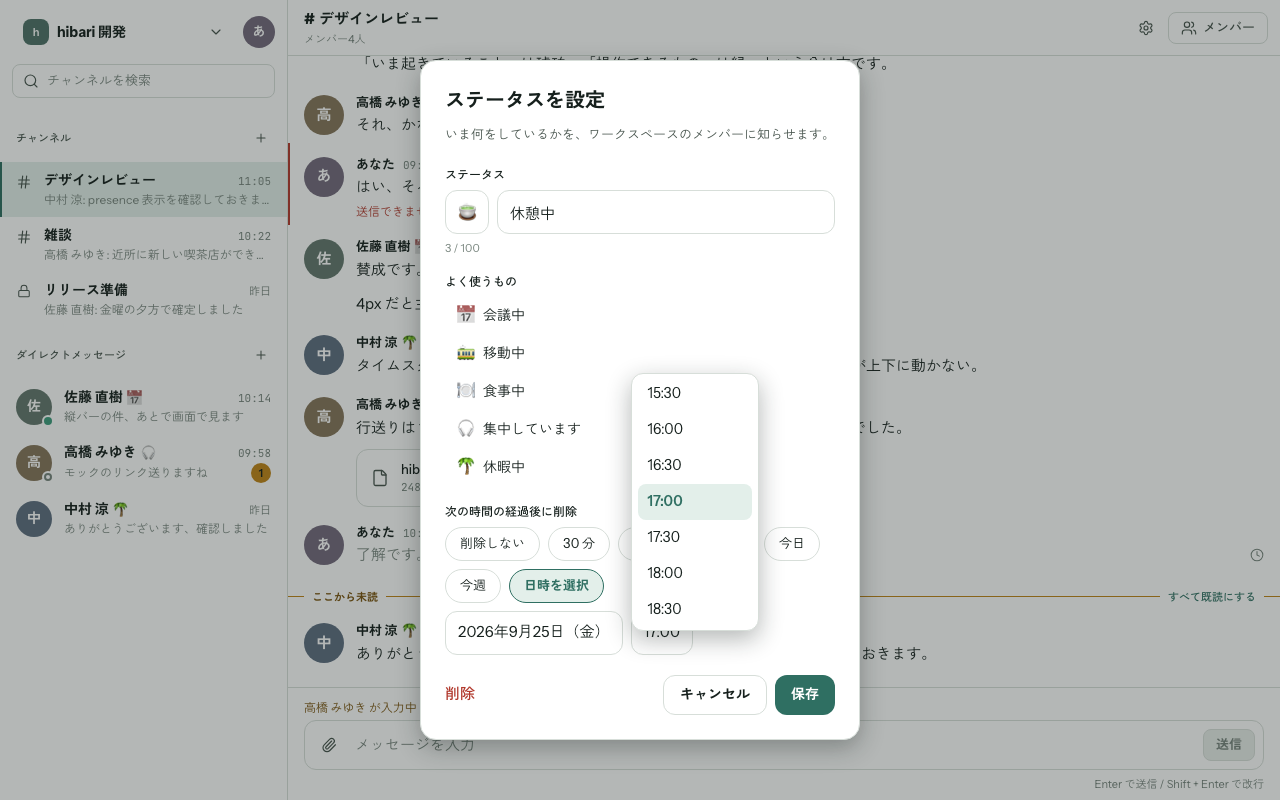
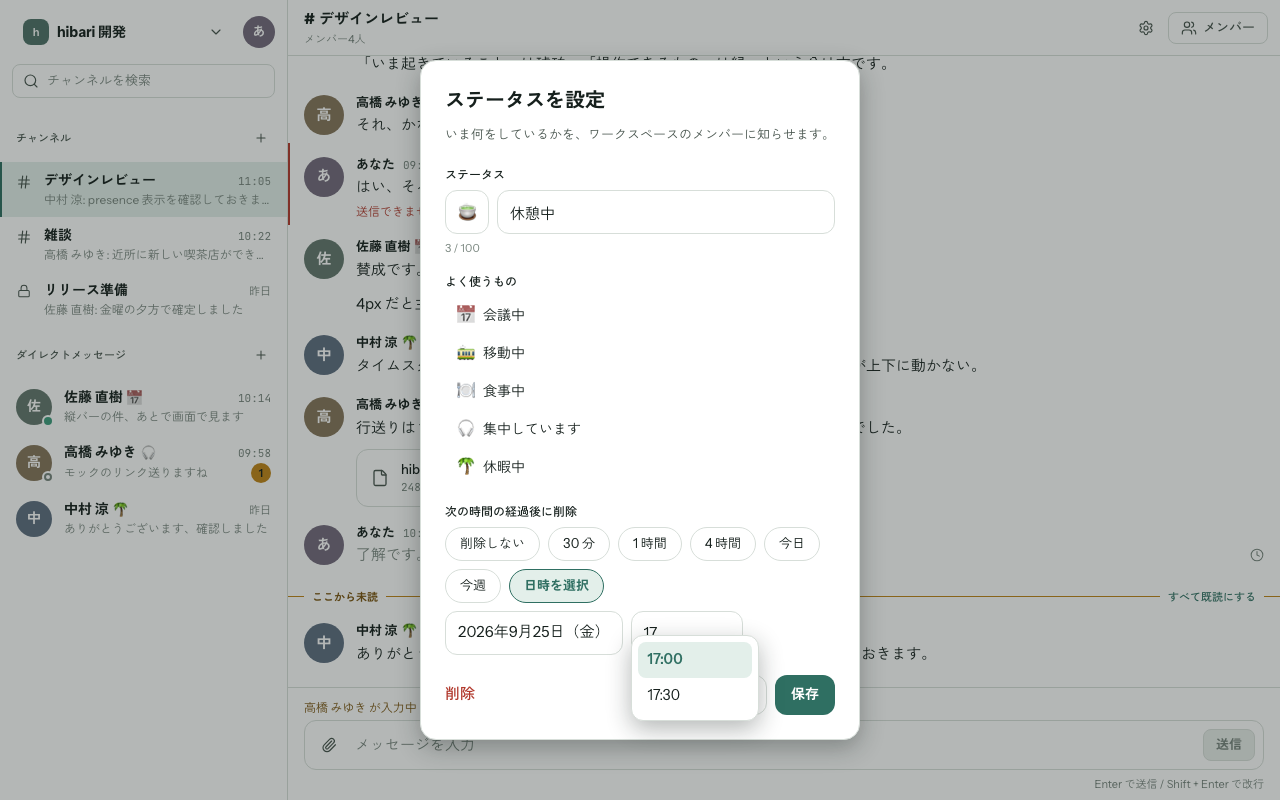
fix(web): 時刻を「候補の一覧 + 自由入力」にする（Slack の time picker に合わせる）
「30 分刻みしか選べない」と書いていたのは誤りだった。根拠にしていたのは第三者の記事で、
Slack 公式の time picker の説明は「デスクトップは自由入力のできるドロップダウン、
モバイルは OS 標準の時刻入力」。オーナーの指摘で調べ直し、そちらに合わせた。

- 時刻は入力欄（combobox）にし、打った文字で候補を絞る（17 → 17:00 / 17:30）
- 候補に無い時刻（17:05）も打って入れられる（lib/calendar.ts の normalizeTime）
- モバイルは OS 標準の時刻入力にする
- 候補は今までどおり 30 分ごと。今日なら過ぎた時刻は出さない

Changed region(s): [[0.4688, 0.5, 0.5938, 0.9375], [0.5, 0.4688, 0.5312, 0.5]]

diff --git a/web/components/chat/status-dialog.tsx b/web/components/chat/status-dialog.tsx
@@ -1,6 +1,6 @@
 "use client";
 
-import { type ReactNode, useEffect, useRef } from "react";
+import { type ReactNode, useEffect, useId, useRef } from "react";
 
 import { AnchoredPanel } from "@/components/ui/anchored-panel";
 import { Calendar } from "@/components/ui/calendar";
@@ -9,7 +9,7 @@ import { ChoiceChip } from "@/components/ui/choice";
 import { Dialog } from "@/components/ui/dialog";
 import { TextField } from "@/components/ui/field";
 import { Portal } from "@/components/ui/portal";
-import { dateLabel, halfHourTimes } from "@/lib/calendar";
+import { dateLabel, halfHourTimes, matchTimes, normalizeTime } from "@/lib/calendar";
 import { cx } from "@/lib/cx";
 import { DESKTOP_QUERY, useMediaQuery } from "@/lib/use-media-query";
 
@@ -103,15 +103,25 @@ function Section({ label, children }: { label: string; children: ReactNode }) {
   );
 }
 
-// 日付・時刻を開くボタン。入力欄と同じ高さ・枠にして、並べたときに段差が出ないようにする。
+// 日付を開くボタンと時刻の入力。高さと枠をそろえて、並べたときに段差が出ないようにする。
 const pickerButtonClass =
-  "flex h-11 cursor-pointer items-center rounded-md border border-border bg-surface px-3 text-lg text-text hover:bg-surface-muted";
+  "flex h-11 cursor-pointer items-center rounded-md border border-border bg-surface px-3 text-lg text-text hover:bg-surface-muted focus-visible:-outline-offset-2";
 
 /**
- * 30 分刻みの時刻の一覧。開いたときに、選んでいる時刻が見える位置まで送る
- * （48 個あるので、いつも 00:00 から始まると選び直すたびにスクロールが要る）。
+ * 時刻の候補の一覧（30 分ごと）。打った文字で絞った結果を受け取る。
+ * 開いたときは、選んでいる時刻が見える位置まで送る（48 個あるので、いつも 00:00 から始まると毎回スクロールが要る）。
  */
-function TimeList({ times, value, onSelect }: { times: string[]; value?: string; onSelect: (time: string) => void }) {
+function TimeList({
+  id,
+  times,
+  value,
+  onSelect,
+}: {
+  id: string;
+  times: string[];
+  value?: string;
+  onSelect: (time: string) => void;
+}) {
   const selected = useRef<HTMLButtonElement>(null);
   useEffect(() => {
     // jsdom には scrollIntoView が無いので、あるときだけ呼ぶ（無くても一覧は出る）
@@ -119,15 +129,15 @@ function TimeList({ times, value, onSelect }: { times: string[]; value?: string;
   }, []);
 
   return (
-    // 一覧から 1 つ選ぶので、押せる要素はラジオにする（button に aria-selected は付けられない）
-    <ul role="radiogroup" aria-label="削除する時刻" className="max-h-64 overflow-y-auto p-1.5">
+    // 入力欄（combobox）に紐づく候補の一覧なので listbox / option にする
+    <ul role="listbox" id={id} aria-label="時刻の候補" className="max-h-64 overflow-y-auto p-1.5">
       {times.map((time) => (
         <li key={time}>
           <button
             ref={time === value ? selected : undefined}
             type="button"
-            role="radio"
-            aria-checked={time === value}
+            role="option"
+            aria-selected={time === value}
             onClick={() => onSelect(time)}
             className={cx(
               "flex h-9 w-full cursor-pointer items-center rounded-sm px-2.5 text-left text-base",
@@ -176,11 +186,16 @@ export function StatusDialog({
 }: StatusDialogProps) {
   const emojiButtonRef = useRef<HTMLButtonElement>(null);
   const dateButtonRef = useRef<HTMLButtonElement>(null);
-  const timeButtonRef = useRef<HTMLButtonElement>(null);
+  const timeInputRef = useRef<HTMLInputElement>(null);
+  const timeListId = useId();
   const desktopPicker = useMediaQuery(DESKTOP_QUERY);
   const picker = <EmojiPicker onPick={(picked) => onPickEmoji?.(picked)} theme={theme} />;
-  // 今日を選んだときは、過ぎた時刻を出さない（設定した瞬間に消えるステータスを作らせない）
-  const times = halfHourTimes().filter((t) => custom?.date !== today || minTime === undefined || t > minTime);
+  // 今日を選んだときは過ぎた時刻を出さず（設定した瞬間に消えるステータスを作らせない）、
+  // 打った文字があればそれで絞る（Slack と同じ「一覧 + 自由入力」）
+  const times = matchTimes(
+    halfHourTimes().filter((t) => custom?.date !== today || minTime === undefined || t > minTime),
+    custom?.time ?? "",
+  );
 
   return (
     <Dialog
@@ -303,16 +318,35 @@ export function StatusDialog({
                 >
                   {custom?.date ? dateLabel(custom.date) : "日付を選ぶ"}
                 </button>
-                <button
-                  ref={timeButtonRef}
-                  type="button"
-                  aria-label="削除する時刻"
-                  aria-expanded={openPicker === "time"}
-                  onClick={() => onToggleCustomPicker?.("time")}
-                  className={pickerButtonClass}
-                >
-                  {custom?.time || "時刻を選ぶ"}
-                </button>
+                {/*
+                  時刻は「候補の一覧 + 自由入力」にする（Slack のデスクトップと同じ）。
+                  候補に無い時刻（17:05 など）も打って入れられる。モバイルは OS 標準の時刻入力に任せる
+                */}
+                {desktopPicker ? (
+                  <input
+                    ref={timeInputRef}
+                    type="text"
+                    inputMode="numeric"
+                    role="combobox"
+                    aria-label="削除する時刻"
+                    aria-autocomplete="list"
+                    aria-controls={timeListId}
+                    aria-expanded={openPicker === "time"}
+                    placeholder="17:00"
+                    value={custom?.time ?? ""}
+                    onChange={(e) => onChangeCustom?.({ date: custom?.date ?? "", time: e.target.value })}
+                    onFocus={() => openPicker !== "time" && onToggleCustomPicker?.("time")}
+                    className={cx(pickerButtonClass, "w-28")}
+                  />
+                ) : (
+                  <input
+                    type="time"
+                    aria-label="削除する時刻"
+                    value={normalizeTime(custom?.time ?? "") ?? ""}
+                    onChange={(e) => onChangeCustom?.({ date: custom?.date ?? "", time: e.target.value })}
+                    className={pickerButtonClass}
+                  />
+                )}
               </div>
             )}
           </div>
@@ -337,17 +371,18 @@ export function StatusDialog({
           </AnchoredPanel>
         )}
 
-        {openPicker === "time" && (
+        {openPicker === "time" && desktopPicker && times.length > 0 && (
           <AnchoredPanel
-            anchorRef={timeButtonRef}
+            anchorRef={timeInputRef}
             align="start"
             label="時刻を選ぶ"
             onDismiss={() => onToggleCustomPicker?.("time")}
             className="w-32 rounded-md border border-border bg-surface shadow-overlay"
           >
             <TimeList
+              id={timeListId}
               times={times}
-              value={custom?.time}
+              value={normalizeTime(custom?.time ?? "")}
               onSelect={(time) => onChangeCustom?.({ date: custom?.date ?? "", time })}
             />
           </AnchoredPanel>

diff --git a/web/components/chat/status-dialog.test.tsx b/web/components/chat/status-dialog.test.tsx
@@ -1,6 +1,6 @@
-import { render, screen } from "@testing-library/react";
+import { fireEvent, render, screen } from "@testing-library/react";
 import userEvent from "@testing-library/user-event";
-import { describe, expect, it, vi } from "vitest";
+import { afterEach, beforeEach, describe, expect, it, vi } from "vitest";
 
 import { STATUS_TEXT_MAX, StatusDialog } from "./status-dialog";
 
@@ -8,6 +8,27 @@ import { STATUS_TEXT_MAX, StatusDialog } from "./status-dialog";
 vi.mock("./emoji-picker", () => ({ EmojiPicker: () => <div data-testid="emoji-picker" /> }));
 
 describe("StatusDialog（ADR 0049）", () => {
+  // jsdom には matchMedia が無く、そのままだとモバイル扱いになる。
+  // 時刻の「候補の一覧 + 自由入力」は md 以上の形なので、md 以上として描く
+  beforeEach(() => {
+    vi.stubGlobal("matchMedia", (query: string) => ({
+      matches: true,
+      media: query,
+      addEventListener() {},
+      removeEventListener() {},
+    }));
+  });
+  afterEach(() => {
+    vi.unstubAllGlobals();
+  });
+
+  it("モバイルでは OS 標準の時刻入力にする（Slack と同じ）", () => {
+    vi.unstubAllGlobals();
+    render(<StatusDialog open text="休憩中" expiry="custom" custom={{ date: "2026-09-25", time: "17:00" }} />);
+
+    expect(screen.getByLabelText("削除する時刻")).toHaveAttribute("type", "time");
+  });
+
   it("設定していなければ、既定の絵文字と空の入力を出し、削除は出さない", () => {
     render(<StatusDialog open text="" expiry="none" />);
 
@@ -63,7 +84,7 @@ describe("StatusDialog（ADR 0049）", () => {
 
     // ブラウザ標準の入力ではなく、押すと自前のカレンダー / 一覧が開くボタン（ADR 0049 の追記）
     expect(screen.getByRole("button", { name: "削除する日付" })).toHaveTextContent("2026年9月25日（金）");
-    expect(screen.getByRole("button", { name: "削除する時刻" })).toHaveTextContent("17:00");
+    expect(screen.getByLabelText("削除する時刻")).toHaveValue("17:00");
   });
 
   it("カレンダーで選んだ日付を、時刻を保ったまま返す", async () => {
@@ -86,7 +107,7 @@ describe("StatusDialog（ADR 0049）", () => {
     expect(onChangeCustom).toHaveBeenCalledWith({ date: "2026-09-28", time: "17:00" });
   });
 
-  it("時刻は 30 分刻みで、今日なら過ぎた時刻を出さない", async () => {
+  it("候補は 30 分ごとで、今日なら過ぎた時刻を出さない", async () => {
     const onChangeCustom = vi.fn();
     render(
       <StatusDialog
@@ -101,12 +122,45 @@ describe("StatusDialog（ADR 0049）", () => {
       />,
     );
 
-    // 一覧は選んでいる時刻が見える位置から始める（jsdom には scrollIntoView が無いので置き換える）
-    expect(screen.queryByRole("radio", { name: "16:30" })).not.toBeInTheDocument();
-    expect(screen.getByRole("radio", { name: "17:30" })).toBeInTheDocument();
-    await userEvent.click(screen.getByRole("radio", { name: "17:30" }));
+    expect(screen.queryByRole("option", { name: "16:30" })).not.toBeInTheDocument();
+    expect(screen.getByRole("option", { name: "17:30" })).toBeInTheDocument();
+    await userEvent.click(screen.getByRole("option", { name: "17:30" }));
 
     expect(onChangeCustom).toHaveBeenCalledWith({ date: "2026-09-21", time: "17:30" });
+  });
+
+  // Slack のデスクトップと同じで、候補に無い時刻も打って入れられる（ADR 0049 の追記）
+  it("打った文字で候補を絞り、候補に無い時刻も受け取る", async () => {
+    const onChangeCustom = vi.fn();
+    const { rerender } = render(
+      <StatusDialog
+        open
+        text="休憩中"
+        expiry="custom"
+        custom={{ date: "2026-09-25", time: "" }}
+        openPicker="time"
+        onChangeCustom={onChangeCustom}
+      />,
+    );
+
+    // 値は props で持つので、1 回の change で確かめる（打つたびに上へ渡る）
+    fireEvent.change(screen.getByLabelText("削除する時刻"), { target: { value: "17:05" } });
+    expect(onChangeCustom).toHaveBeenLastCalledWith({ date: "2026-09-25", time: "17:05" });
+
+    rerender(
+      <StatusDialog
+        open
+        text="休憩中"
+        expiry="custom"
+        custom={{ date: "2026-09-25", time: "17:0" }}
+        openPicker="time"
+        onChangeCustom={onChangeCustom}
+      />,
+    );
+
+    // 「17:0」で絞ると 17:00 だけが残る（17:30 は消える）
+    expect(screen.getByRole("option", { name: "17:00" })).toBeInTheDocument();
+    expect(screen.queryByRole("option", { name: "17:30" })).not.toBeInTheDocument();
   });
 
   it("絵文字のボタンでピッカーを開け閉めする", async () => {

diff --git a/web/lib/calendar.ts b/web/lib/calendar.ts
@@ -78,7 +78,40 @@ export function monthGrid(month: string): (string | undefined)[][] {
   return Array.from({ length: 6 }, (_, row) => cells.slice(row * 7, row * 7 + 7));
 }
 
-/** 30 分刻みの時刻（`HH:MM`）。Slack と同じ刻み。 */
+/** 候補に出す時刻（`HH:MM`）。30 分ごとに並べる。ここに無い時刻は打って入れられる（下の `normalizeTime`）。 */
 export function halfHourTimes(): string[] {
   return Array.from({ length: 48 }, (_, i) => `${pad(Math.floor(i / 2))}:${i % 2 === 0 ? "00" : "30"}`);
+}
+
+/**
+ * 打った文字を `HH:MM` にする。解釈できなければ undefined。
+ *
+ * Slack のデスクトップの時刻の入力は「候補の一覧 + 自由入力」なので、候補に無い時刻も受け取れるようにする。
+ * `17` → `17:00`、`1705` / `17:5` → `17:05`。全角のコロンと空白も受ける（日本語入力のまま打てるように）。
+ */
+export function normalizeTime(input: string): string | undefined {
+  const cleaned = input.trim().replace(/[：]/g, ":").replace(/\s/g, "");
+  let hour: number;
+  let minute: number;
+  if (cleaned.includes(":")) {
+    const [h, m = "0"] = cleaned.split(":");
+    if (!/^\d{1,2}$/.test(h) || !/^\d{1,2}$/.test(m)) return undefined;
+    [hour, minute] = [Number(h), Number(m)];
+  } else if (/^\d{1,2}$/.test(cleaned)) {
+    // 「17」は 17:00 のつもり
+    [hour, minute] = [Number(cleaned), 0];
+  } else if (/^\d{3,4}$/.test(cleaned)) {
+    // 「930」「1705」はまとめて打たれた形。後ろ 2 桁が分
+    [hour, minute] = [Number(cleaned.slice(0, -2)), Number(cleaned.slice(-2))];
+  } else {
+    return undefined;
+  }
+  return hour < 24 && minute < 60 ? `${pad(hour)}:${pad(minute)}` : undefined;
+}
+
+/** 打った文字で候補を絞る（`17` → 17:00 / 17:30、`173` → 17:30）。空なら全部。 */
+export function matchTimes(times: readonly string[], input: string): string[] {
+  const digits = input.replace(/[^\d]/g, "");
+  if (digits === "") return [...times];
+  return times.filter((t) => t.replace(":", "").startsWith(digits));
 }

diff --git a/web/lib/calendar.test.ts b/web/lib/calendar.test.ts
@@ -1,6 +1,17 @@
 import { describe, expect, it } from "vitest";
 
-import { dateLabel, fromISODate, halfHourTimes, monthGrid, monthLabel, shiftDate, shiftMonth, toISODate } from "./calendar";
+import {
+  dateLabel,
+  fromISODate,
+  halfHourTimes,
+  matchTimes,
+  monthGrid,
+  monthLabel,
+  normalizeTime,
+  shiftDate,
+  shiftMonth,
+  toISODate,
+} from "./calendar";
 
 describe("カレンダーの日付の計算（ADR 0049 の追記）", () => {
   it("ローカルの日付として往復する（UTC でずらさない）", () => {
@@ -47,5 +58,33 @@ describe("カレンダーの日付の計算（ADR 0049 の追記）", () => {
     expect(times[0]).toBe("00:00");
     expect(times[1]).toBe("00:30");
     expect(times.at(-1)).toBe("23:30");
+  });
+});
+
+describe("時刻の自由入力（Slack と同じ「一覧 + 自由入力」）", () => {
+  it("打った文字を HH:MM にする", () => {
+    expect(normalizeTime("17")).toBe("17:00");
+    expect(normalizeTime("17:5")).toBe("17:05");
+    expect(normalizeTime("1705")).toBe("17:05");
+    expect(normalizeTime("930")).toBe("09:30");
+    expect(normalizeTime(" 9:30 ")).toBe("09:30");
+    expect(normalizeTime("17：30")).toBe("17:30");
+  });
+
+  it("時刻にならない文字は undefined", () => {
+    expect(normalizeTime("24:00")).toBeUndefined();
+    expect(normalizeTime("12:60")).toBeUndefined();
+    expect(normalizeTime("あ")).toBeUndefined();
+    expect(normalizeTime("")).toBeUndefined();
+  });
+
+  it("打った文字で候補を絞る", () => {
+    const times = halfHourTimes();
+
+    expect(matchTimes(times, "")).toHaveLength(48);
+    expect(matchTimes(times, "17")).toEqual(["17:00", "17:30"]);
+    expect(matchTimes(times, "173")).toEqual(["17:30"]);
+    expect(matchTimes(times, "17:3")).toEqual(["17:30"]);
+    expect(matchTimes(times, "99")).toEqual([]);
   });
 });

diff --git a/web/stories/chat/presence.stories.tsx b/web/stories/chat/presence.stories.tsx
@@ -86,9 +86,9 @@ export const StatusDialogCalendar: Story = {
   render: () => chat({ presence: true, statusDialog: "calendar" }),
 };
 
-/** 時刻も自由入力ではなく、30 分刻みの一覧から選ぶ（Slack と同じ刻み）。 */
+/** 時刻は「候補の一覧 + 自由入力」。打った文字（`17`）で候補が絞られる。 */
 export const StatusDialogTime: Story = {
-  name: "ステータスを設定（時刻の一覧）",
+  name: "ステータスを設定（時刻の候補）",
   tags: ["since:6.8"],
   render: () => chat({ presence: true, statusDialog: "time" }),
 };

diff --git a/web/stories/screens.tsx b/web/stories/screens.tsx
@@ -386,7 +386,8 @@ export function chat({
                 ? "custom"
                 : "today"
           }
-          custom={{ date: "2026-09-25", time: "17:00" }}
+          // 時刻の一覧は「打った文字で絞る」ところを見せる（`17` → 17:00 / 17:30）
+          custom={{ date: "2026-09-25", time: statusDialog === "time" ? "17" : "17:00" }}
           calendarMonth="2026-09"
           today="2026-09-21"
           minTime="11:00"
